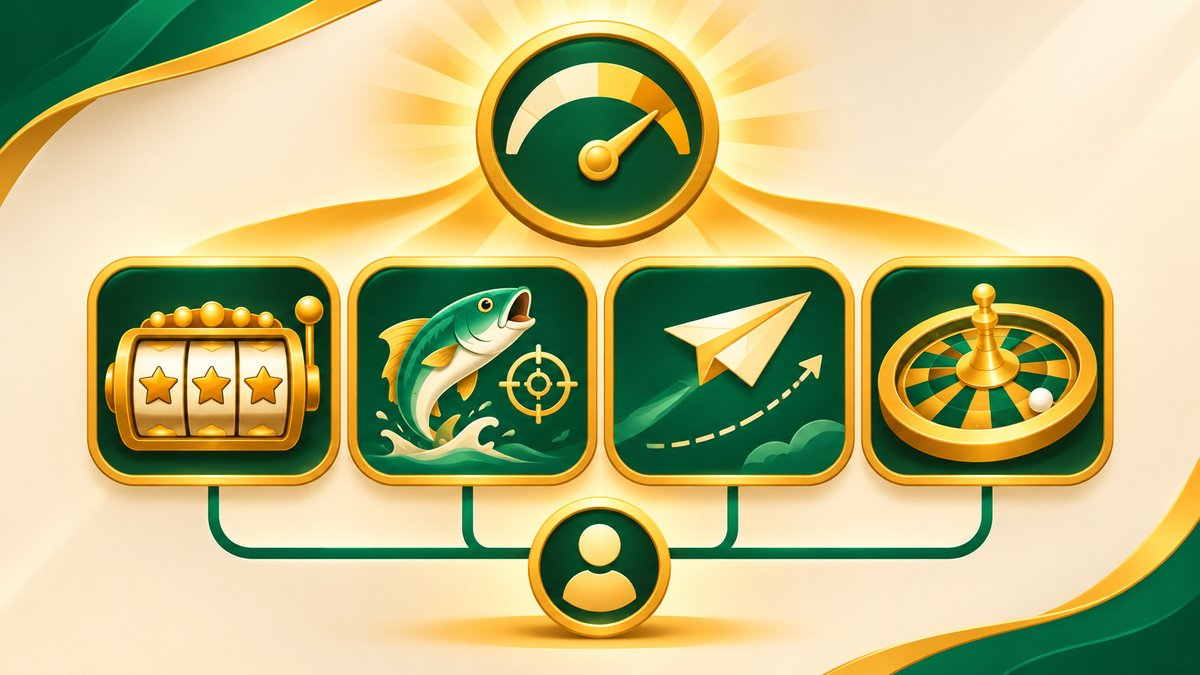
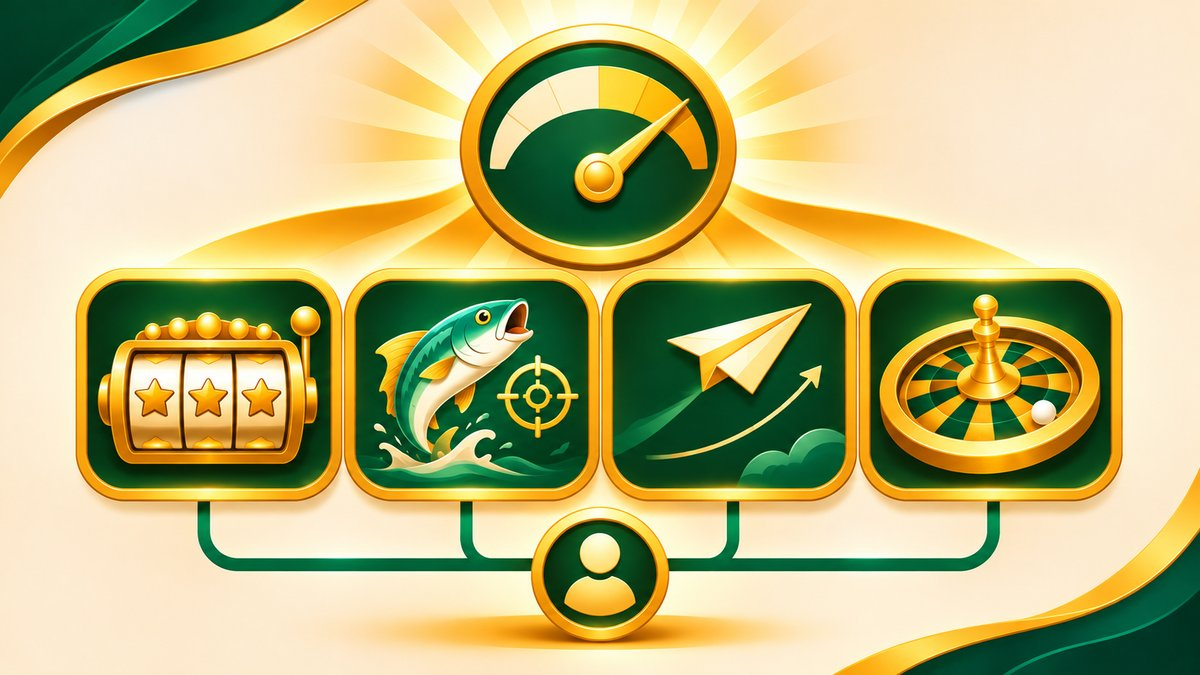
Rush Gala go-live: real download link, full article, final hero image

diff --git a/src/data/blog/content/rush-gala-countdown.tsx b/src/data/blog/content/rush-gala-countdown.tsx
@@ -4,51 +4,137 @@ export default function Content() {
   return (
     <>
       <p>
-        Rush Gala is a new platform scheduled to launch on 23 November 2026 at 8:00 AM IST as the newest entry in
-        the Yono network. No download link, welcome bonus or promo code has been announced yet. This page is a
-        short, honest status update — not a prediction of what the launch will include.
+        A randomly assigned bonus between ₹50 and ₹500 is the headline number for Rush Gala, the multi-game
+        casino-style app that joined the Yono network on 23 November 2026 at 8:00 AM IST. That figure, like
+        everything else on this page, comes straight from the operator's own listing. AllYonoReward hasn't
+        independently verified it, and you shouldn't take it as gospel until you see it credited inside your own
+        account.
       </p>
 
-      <h2>When does Rush Gala launch?</h2>
+      <h2>When did Rush Gala launch?</h2>
       <p>
-        Rush Gala is scheduled to launch on 23 November 2026 at 8:00 AM IST. That is the date and time currently
-        tracked on this site's countdown, and it may change if the platform announces otherwise. Check the{" "}
-        <Link href="/games">games directory</Link> for the current listing status.
+        Rush Gala went live on 23 November 2026 at 8:00 AM IST. The app is downloadable now through the operator's
+        own referral link:{" "}
+        <a href="https://rushgala.club/?code=MBZQC5NXWUP&t=1795408331" rel="nofollow noopener" target="_blank">
+          rushgala.club
+        </a>
+        . AllYonoReward doesn't host the APK itself; the button on our{" "}
+        <Link href="/games/rush-gala">Rush Gala game page</Link> simply points to that same link.
       </p>
 
-      <h2>What's confirmed so far</h2>
-      <p>The only confirmed detail at this stage is the planned launch date and time above. Specifically:</p>
-      <ul>
-        <li>No download link has been published.</li>
-        <li>No welcome bonus amount has been announced.</li>
-        <li>No deposit-match or referral terms have been announced.</li>
-        <li>No promo code has been publicly listed.</li>
-      </ul>
+      <h2>The bonus is a range, not a number</h2>
       <p>
-        We are not reproducing figures or ranges from other apps in this network as a stand-in for Rush Gala's own
-        terms — nothing has been confirmed, so nothing is listed here as if it were.
+        Here's the part worth repeating: Rush Gala doesn't hand out one fixed welcome amount to every new account.
+        According to the operator's own listing, new signups get somewhere between ₹50 and ₹500, with the platform
+        deciding the actual figure at the moment of signup. That's a meaningfully different structure from a flat
+        welcome bonus, and no formula for how the platform assigns an amount within that range has been disclosed, so
+        treat ₹500 as a ceiling you might reach rather than a figure you should expect. Our{" "}
+        <Link href="/rewards/welcome-bonus">welcome bonus</Link> explainer goes into more depth on why
+        range-based rewards work this way across the category generally.
       </p>
 
-      <h2>What to check once Rush Gala is live</h2>
-      <ul>
-        <li>Verify the actual welcome bonus amount in-app — do not rely on pre-launch speculation from any source.</li>
-        <li>Read the deposit-match and wagering fine print before depositing, if such a bonus is offered.</li>
-        <li>Check referral program terms, including what action an invited user must complete before rewards are credited.</li>
-        <li>Review withdrawal minimums and processing times.</li>
-        <li>Only use promo codes confirmed inside the app or on the platform's own official channels.</li>
-      </ul>
-
-      <h2>Legal note</h2>
+      <h2>Deposit and withdrawal minimums</h2>
       <p>
-        Online money games are prohibited in India since 1 May 2026 under the Promotion and Regulation of Online
-        Gaming Act, 2025. Players should confirm Rush Gala&apos;s classification and their state&apos;s specific
-        regulations before playing, once the platform is live.
+        The operator's listing puts the minimum deposit at ₹50 to ₹100 and the minimum withdrawal at ₹100. Again,
+        these are figures stated by Rush Gala itself, not numbers AllYonoReward has confirmed through independent
+        testing. If you're planning your first deposit or your first cash-out, check the exact threshold inside the
+        app before you commit, since operators do adjust these numbers without much notice.
+      </p>
+
+      <h2>Four games under one app</h2>
+      <p>
+        Despite sitting in our Slots category (the closest fit among the labels we use, since there isn't a
+        dedicated multi-game casino tag in this directory), Rush Gala isn't a single-format slots app. The
+        operator's own listing describes four separate game types bundled into one install: Slots, Fishing, Fly and
+        Roulette. That's closer in spirit to the kind of multi-game lineup you'd see on a platform like{" "}
+        <Link href="/games/cash-rummy">Cash Rummy</Link>, which bundles ten different formats, than to a
+        single-mechanic slots title. Worth knowing going in if you downloaded expecting only reels.
+      </p>
+
+      <h2>App size</h2>
+      <p>
+        The install is listed at 33.4MB, per the operator's own figures. That's a reasonably light download as
+        these apps go, though actual size on your device can vary slightly by Android version and update history.
+      </p>
+
+      <h2>Rush Gala's bonus range next to other apps on this site</h2>
+      <p>
+        Not every app in this directory structures its welcome reward the same way. Here's how Rush Gala's range
+        compares with two other platforms already covered here, based strictly on what each one's own listing or
+        page states, not on assumptions carried over from one app to another:
+      </p>
+      <table>
+        <thead>
+          <tr>
+            <th>App</th>
+            <th>Category</th>
+            <th>Welcome Bonus (per operator)</th>
+            <th>Structure</th>
+          </tr>
+        </thead>
+        <tbody>
+          <tr><td>Rush Gala</td><td>Slots / Multi-Game</td><td>₹50–₹500</td><td>Range, randomly assigned at signup</td></tr>
+          <tr><td>Cash Rummy</td><td>Rummy / Multi-Game</td><td>₹50–₹500</td><td>Range, per the app's own listing</td></tr>
+          <tr><td>Money Rummy</td><td>Rummy</td><td>Not announced</td><td>No bonus figure published at all</td></tr>
+        </tbody>
+      </table>
+      <p>
+        The takeaway isn't that these apps are identical. They're not, and the games themselves are completely
+        different, but a ₹50–₹500 range shows up more than once across this network, while other apps
+        launch with no bonus claim whatsoever. Knowing which bucket an app falls into before you sign up is more
+        useful than assuming every listing follows the same pattern.
+      </p>
+
+      <h2>Promo codes</h2>
+      <p>
+        Nothing fixed has been published yet. No standing promo code for Rush Gala is currently listed anywhere we
+        can verify, and any code you come across on a forum or social post before we've confirmed it should be
+        treated as unverified. We'll update the game page if and when the operator makes one public.
+      </p>
+
+      <h2>A note on responsible play</h2>
+      <p>
+        Rush Gala, like every real-money app covered on this site, is intended for adults only (18+). Rules
+        governing real-money gaming differ by Indian state, and some states restrict or prohibit it outright.
+        Confirm your own state's position before depositing any money, and set a personal limit before you start
+        rather than after.
+      </p>
+
+      <h2>FAQ</h2>
+      <h3>When did Rush Gala launch?</h3>
+      <p>Rush Gala launched on 23 November 2026 at 8:00 AM IST and is downloadable now.</p>
+
+      <h3>What's the Rush Gala welcome bonus?</h3>
+      <p>
+        The operator's own listing states a range of ₹50 to ₹500, assigned randomly at signup rather than a fixed
+        amount for every account. This hasn't been independently verified by AllYonoReward.
+      </p>
+
+      <h3>What's the minimum deposit and withdrawal?</h3>
+      <p>
+        Per the operator's listing, the minimum deposit is ₹50 to ₹100 and the minimum withdrawal is ₹100. Confirm
+        the current figures inside the app before transacting.
+      </p>
+
+      <h3>What kind of games does Rush Gala have?</h3>
+      <p>
+        Four types, per the operator's own listing: Slots, Fishing, Fly and Roulette. It's a multi-game
+        casino-style app rather than a single-format title or a rummy card game.
+      </p>
+
+      <h3>How big is the Rush Gala app?</h3>
+      <p>The operator lists the install size at 33.4MB.</p>
+
+      <h3>Is there a Rush Gala promo code?</h3>
+      <p>
+        Not one we can currently verify. If a fixed code is published by the platform, it will be added to the{" "}
+        <Link href="/games/rush-gala">Rush Gala game page</Link> and this article.
       </p>
 
       <p>
-        This page will be updated with verified details, a download link and promo-code status once Rush Gala
-        launches. In the meantime, browse <Link href="/games">all games</Link> in the directory or the full{" "}
-        <Link href="/rewards">rewards and incentives</Link> list to see how similar platforms are covered.
+        Browse <Link href="/games">all games</Link> in the directory or the full{" "}
+        <Link href="/rewards">rewards and incentives</Link> list to see how other apps on this network structure
+        their welcome offers.
       </p>
     </>
   );

diff --git a/src/data/games.ts b/src/data/games.ts
@@ -2891,46 +2891,46 @@ export const games: Game[] = [
     name: "Rush Gala",
     slug: "rush-gala",
     icon: "/images/games/rush-gala.webp",
-    shortDescription: "Rush Gala is an upcoming platform with a planned launch on November 23, 2026. No download link, welcome bonus or promo code has been announced yet.",
-    longDescription: "Rush Gala is listed here as a Coming Soon platform ahead of its planned release on November 23, 2026. Nothing about the app has been independently verified yet: there is no confirmed download link, no announced welcome bonus and no public promo code. This page exists so the launch countdown and any confirmed details can be tracked in one place, and it will be reviewed and updated with verified information once the platform is live.",
+    shortDescription: "Rush Gala is a multi-game casino-style platform that launched November 23, 2026. The app's own listing states a ₹50–500 welcome bonus range and ₹100 minimum withdrawal — neither independently verified.",
+    longDescription: "Rush Gala launched November 23, 2026 at 8:00 AM IST as a multi-game casino-style platform on the Yono network — Slots, Fishing, Fly and Roulette, per the operator's own listing, rather than a single rummy or card format. The app's own listing states a ₹50 to ₹500 welcome bonus (a range decided by the platform at signup, not a fixed figure for every user), a ₹50–₹100 minimum deposit and a ₹100 minimum withdrawal, with an app size of 33.4MB — none of this independently verified by AllYonoReward at this time.",
     category: ["Slots"],
     features: ["Promo Code"],
-    downloadUrl: "",
+    downloadUrl: "https://rushgala.club/?code=MBZQC5NXWUP&t=1795408331",
     promoCode: {
       code: "",
       status: "No Public Code Available",
-      lastChecked: "",
-      eligibility: "Rush Gala has not launched, so no promo-code eligibility criteria have been published. Check the app's own terms after launch before assuming you qualify.",
-      conditions: "No redemption conditions have been published for Rush Gala at this time.",
+      lastChecked: "2026-11-23",
+      eligibility: "Rush Gala's promo-code eligibility criteria are managed by the platform and not published independently here. Check the in-app terms before assuming you qualify.",
+      conditions: "No fixed promo code has been confirmed for this app at this time.",
       expiration: "Not applicable — no public code is currently listed for this game.",
-      usageLimit: "No usage limit to report until a code is publicly listed.",
-      whereToEnter: "Not yet known. Promo-code entry, if offered, would be set by the Rush Gala platform after launch.",
-      commonIssues: ["The platform has not launched, so no verified promo code exists yet.","Codes circulating before launch may not carry over to the live app.","Pre-launch bonus claims on third-party pages are unverified."],
+      usageLimit: "Not yet applicable — a usage limit will be noted once a code is listed.",
+      whereToEnter: "Look for a redeem-code, rewards or wallet section within Rush Gala to enter any available promotional code; navigation may differ by app version.",
+      commonIssues: ["No publicly verified promo code exists for this app yet.","A code shared without confirmation from the platform should be treated as unverified.","Bonus claims made before launch may not reflect the actual live offer."],
       platformTerms: "Promo-code terms, minimum requirements and reward values are set solely by the Rush Gala platform and may change without notice.",
     },
-    platformStatus: "Coming Soon",
+    platformStatus: "Active",
     classification: "Not Yet Verified",
-    officialWebsiteStatus: "Rush Gala is listed as an upcoming platform with a planned release on November 23, 2026. Legal/regulatory classification is handled independently and not yet confirmed — see Legalities.",
-    availabilityNotes: "Rush Gala has not launched yet. Once it does, availability may depend on device, app store policies and user location.",
-    lastReviewed: "2026-11-22",
-    lastUpdated: "2026-11-22",
-    relatedGames: ["123-rummy","cash-rummy","spin-rummy","vip-rummy","jaiho-play"],
+    officialWebsiteStatus: "Rush Gala launched November 23, 2026 and this listing has been updated accordingly. Legal or regulatory classification is a distinct matter, not yet independently verified — see Legalities.",
+    availabilityNotes: "Access to Rush Gala may differ depending on your device, the app store's current policies, and where you're located.",
+    lastReviewed: "2026-11-23",
+    lastUpdated: "2026-11-23",
+    relatedGames: ["dhan-game","777-game","789-jackpot","yono-slots","cash-rummy"],
     faqs: [
       {
         question: "When does Rush Gala launch?",
-        answer: "Rush Gala is scheduled to launch on November 23, 2026, at around 8:00 AM IST, according to the countdown on this site. The date is the one currently tracked here and may change if the platform announces otherwise.",
+        answer: "Rush Gala launched on November 23, 2026, at around 8:00 AM IST. The download link on this page has been updated to point to the live app.",
       },
       {
         question: "Is there a Rush Gala promo code right now?",
-        answer: "No publicly verified promo code is listed for Rush Gala at this time. The platform has not launched, so any code advertised before launch should be treated as unverified.",
+        answer: "No publicly verified promo code is listed for Rush Gala at this time. Any code advertised elsewhere should be treated as unverified until confirmed.",
       },
       {
         question: "Is there a Rush Gala download link?",
-        answer: "No official download link has been confirmed yet. This page will be updated once a verified link is available after launch.",
+        answer: "Yes. Rush Gala is now live, and the download button on this page links to the platform.",
       },
       {
-        question: "What welcome bonus has Rush Gala announced?",
-        answer: "No welcome bonus has been announced for Rush Gala at this time. This page will be updated once bonus details are confirmed.",
+        question: "What welcome bonus does Rush Gala offer?",
+        answer: "Rush Gala's own listing states a welcome bonus between ₹50 and ₹500, randomly assigned at signup rather than a fixed amount for everyone. This figure comes from the operator's own listing and has not been independently verified by AllYonoReward.",
       },
     ],
     featuredHome: false,

diff --git a/src/data/blog/posts.ts b/src/data/blog/posts.ts
@@ -9,38 +9,38 @@ export const blogPosts: BlogPost[] = [
     slug: "rush-gala-countdown",
 
     image: "/images/blog/rush-gala-countdown.jpg",
-    title: "Rush Gala Launch Countdown: What's Confirmed So Far",
-    metaTitle: "Rush Gala Launch Countdown — What's Confirmed So Far",
+    title: "Rush Gala Bonus: ₹50-500 Welcome Range, Live Download Link",
+    metaTitle: "Rush Gala Bonus — ₹50-500 Welcome Range & Live Launch Details",
     metaDescription:
-      "Rush Gala launches 23 Nov 2026 at 8:00 AM IST. Here's exactly what's confirmed ahead of launch — and what isn't, stated plainly.",
+      "Rush Gala launched 23 Nov 2026. The operator's listing states a ₹50-500 welcome bonus range. Here's the live download link and what's confirmed so far.",
     excerpt:
-      "Rush Gala launches 23 November 2026 at 8:00 AM IST. No download link, bonus or promo code is confirmed yet — here's what we actually know.",
+      "Rush Gala launched 23 November 2026 with a ₹50-500 welcome bonus range per the operator's listing. Here's the live download link and what's confirmed.",
     category: "Guides",
-    targetKeyword: "rush gala launch",
-    datePublished: "2026-11-22",
-    dateUpdated: "2026-11-22",
-    readingTimeMinutes: 3,
+    targetKeyword: "rush gala bonus",
+    datePublished: "2026-11-23",
+    dateUpdated: "2026-11-23",
+    readingTimeMinutes: 5,
     relatedGameSlugs: ["rush-gala"],
     faqs: [
       {
-        question: "When does Rush Gala launch?",
+        question: "When did Rush Gala launch?",
         answer:
-          "Rush Gala is scheduled to launch on 23 November 2026 at 8:00 AM IST. This is the date currently tracked on this site and may change if the platform announces otherwise.",
+          "Rush Gala launched on 23 November 2026 at 8:00 AM IST and is downloadable now.",
       },
       {
-        question: "Is there a Rush Gala download link yet?",
+        question: "Is there a Rush Gala download link?",
         answer:
-          "No. No official download link has been published. This page will be updated once a verified link is available after launch.",
+          "Yes. Rush Gala is live and the download button on its game page links to the platform's own referral link.",
       },
       {
         question: "What welcome bonus does Rush Gala offer?",
         answer:
-          "No welcome bonus amount has been announced for Rush Gala at this time. This page will be updated once bonus details are confirmed.",
+          "The operator's own listing states a range between ₹50 and ₹500, randomly assigned at signup rather than a fixed figure. This has not been independently verified by AllYonoReward.",
       },
       {
         question: "Is there a Rush Gala promo code?",
         answer:
-          "No publicly verified promo code exists for Rush Gala yet. Any code advertised elsewhere before launch should be treated as unverified.",
+          "No publicly verified promo code exists for Rush Gala at this time. Any code advertised elsewhere should be treated as unverified until confirmed.",
       },
     ],
   },

diff --git a/src/data/upcoming-games.ts b/src/data/upcoming-games.ts
@@ -6,13 +6,7 @@ import type { UpcomingGame } from "@/lib/types";
 // Gold Rummy (launched August 19, 2026), Money Rummy (launched
 // September 9, 2026), Jaiho Play (launched October 15, 2026), VIP Rummy
 // (launched October 20, 2026), Spin Rummy (launched October 30, 2026),
-// Cash Rummy (launched November 5, 2026), and 123 Rummy (launched
-// November 16, 2026) have all moved to regular listings (see games.ts).
-export const upcomingGames: UpcomingGame[] = [
-  {
-    slug: "rush-gala",
-    releaseDateISO: "2026-11-23T08:00:00+05:30",
-    releaseWindowLabel: "8:00 AM IST",
-    highlightTags: ["New"],
-  },
-];
+// Cash Rummy (launched November 5, 2026), 123 Rummy (launched
+// November 16, 2026), and Rush Gala (launched November 23, 2026) have all
+// moved to regular listings (see games.ts).
+export const upcomingGames: UpcomingGame[] = [];
